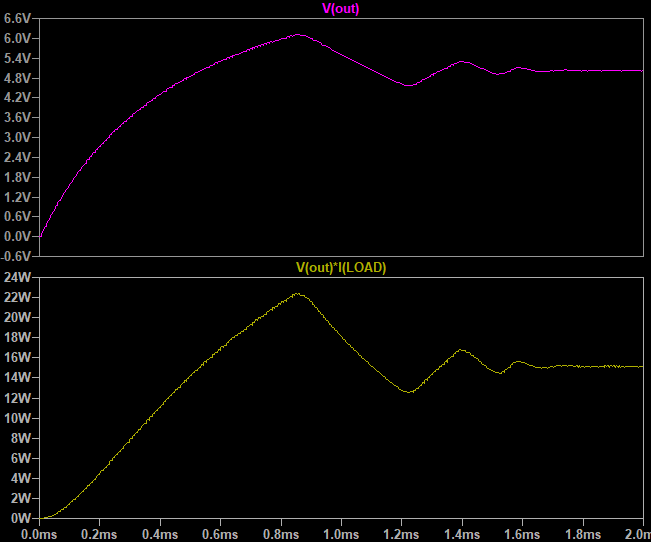
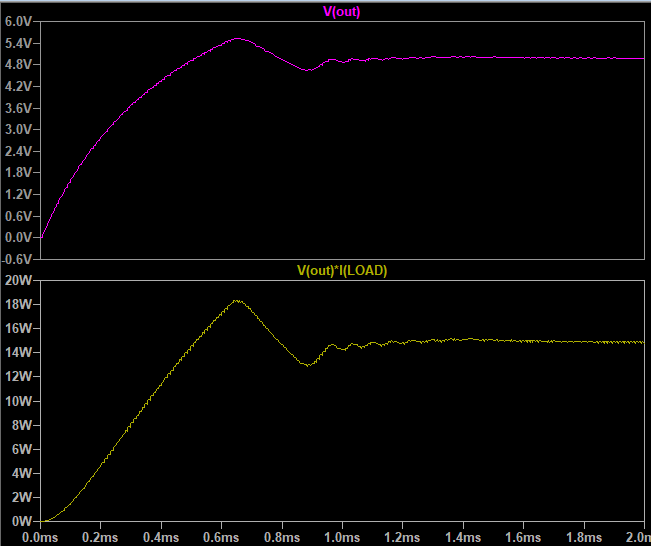
chore: update

diff --git a/PSU_DCDC_Flyback_Iso_Async_LT3844/Simulate/ReadMe.md b/PSU_DCDC_Flyback_Iso_Async_LT3844/Simulate/ReadMe.md
@@ -1,5 +1,5 @@
 ### v2.0.asc
-- Output: 5V/15W x2, Isolated
+- Output: 5V/15W, Isolated
 - Isolated FeedBack using Optocoupler and TL431
 
 ### v1.0.asc
